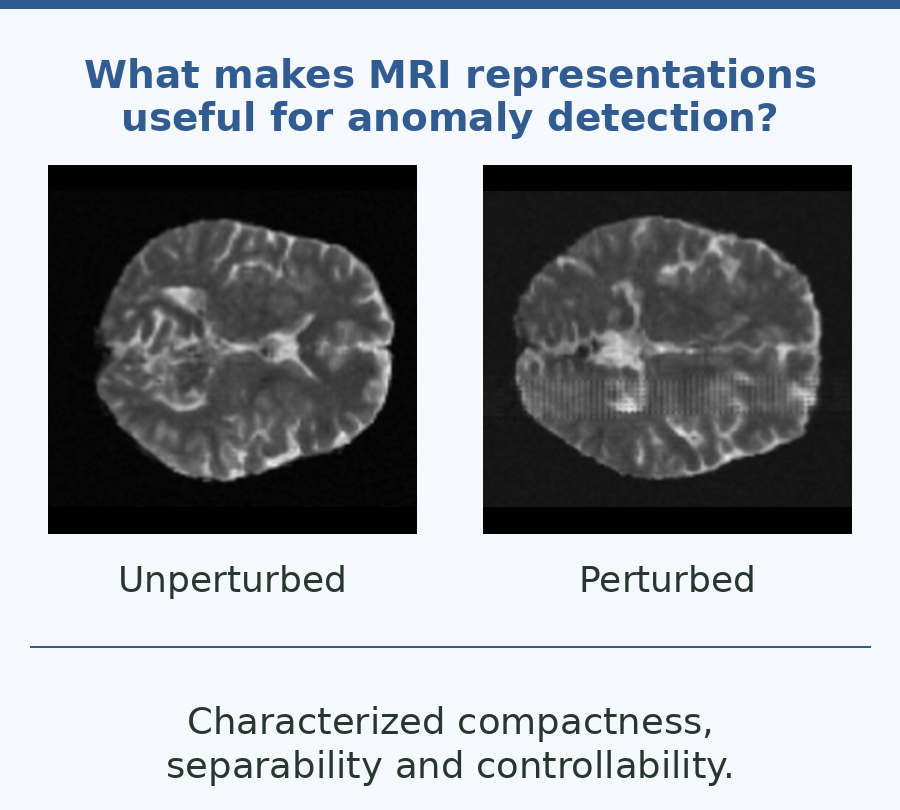
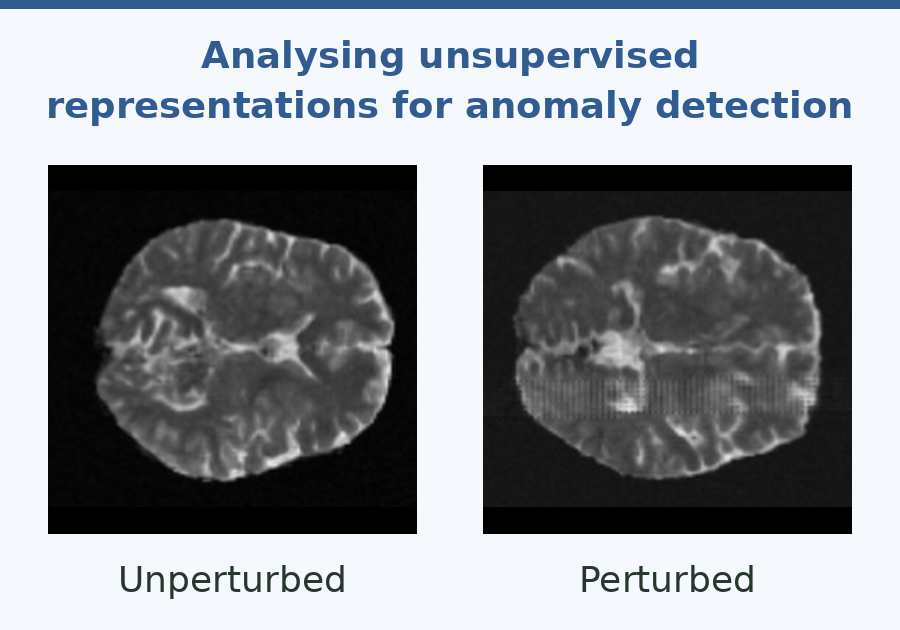
Focus work highlights on a single contribution
Remove questions and duplicate footer statements. Emphasize unsupervised representations and multimodal alignment between image and clinical features while preserving medical panels and modelling flows.

Copilot-Session: de9f66c0-7970-44bd-9dd5-6290aaad4bb2

diff --git a/index.html b/index.html
@@ -81,7 +81,7 @@
 
       <div class="pub-card highlight">
         <a class="pub-thumb" href="https://arxiv.org/abs/2603.01552" target="_blank">
-          <img src="assets/papers/align-cdae-thesis.webp?v=3" alt="Can clinical cues guide anatomical change in MRI? Baseline MRI, attention overlay and predicted follow-up. Aligned clinical conditioning with progression-specific anatomy." width="900" height="810" loading="lazy" />
+          <img src="assets/papers/align-cdae-thesis.webp?v=4" alt="Multimodal alignment between image and clinical features. Baseline MRI, anatomical attention overlay and predicted follow-up from Align-cDAE." width="900" height="630" loading="lazy" />
           <span class="architecture-flow flow-align" role="img" aria-label="Simplified Align-cDAE architecture: MRI encoder, attention-aligned conditional modelling, diffusion decoder.">
             <span class="flow-step" aria-hidden="true"><span>MRI<br />encoder</span></span>
             <span class="flow-step flow-modelling" aria-hidden="true"><span>Attention<br />aligned<br />Modelling</span></span>
@@ -101,7 +101,7 @@
 
       <div class="pub-card highlight">
         <a class="pub-thumb" href="https://arxiv.org/abs/2511.05934" target="_blank">
-          <img src="assets/papers/ad-dae-thesis.webp?v=3" alt="Can MRI progression be controlled without paired follow-ups? Acquired baseline MRI and predictions two and four years later. Controlled follow-up synthesis from unpaired MRI." width="900" height="810" loading="lazy" />
+          <img src="assets/papers/ad-dae-thesis.webp?v=4" alt="Unsupervised representations for controllable MRI progression. Acquired baseline MRI and AD-DAE predictions two and four years later." width="900" height="630" loading="lazy" />
           <span class="architecture-flow flow-ad" role="img" aria-label="Simplified AD-DAE architecture: MRI encoder, latent-shift modelling guided by age and cognitive status, diffusion decoder.">
             <span class="flow-step" aria-hidden="true"><span>MRI<br />encoder</span></span>
             <span class="flow-step flow-modelling" aria-hidden="true"><span>Latent<br />shift<br />Modelling</span></span>
@@ -122,7 +122,7 @@
 
       <div class="pub-card highlight">
         <a class="pub-thumb" href="https://arxiv.org/abs/2507.02405" target="_blank">
-          <img src="assets/papers/posdiffae-thesis.webp?v=3" alt="Can position guide brain-region classification? Original Nissl-stained brain section and PosDiffAE-predicted region map from thesis Figure 3.5. Position-aware representations for brain-region classification." width="900" height="810" loading="lazy" />
+          <img src="assets/papers/posdiffae-thesis.webp?v=4" alt="Unsupervised, position-aware representations for tissue classification. Original Nissl-stained brain section and PosDiffAE-predicted region map." width="900" height="630" loading="lazy" />
           <span class="architecture-flow flow-pos" role="img" aria-label="Simplified PosDiffAE classification architecture: patch encoder, position-aware diffusion modelling, region classifier using the learned representations.">
             <span class="flow-step" aria-hidden="true"><span>Patch<br />encoder</span></span>
             <span class="flow-step flow-modelling" aria-hidden="true"><span>Position-<br />aware<br />Modelling</span></span>
@@ -143,7 +143,7 @@
 
       <div class="pub-card highlight">
         <a class="pub-thumb" href="https://arxiv.org/abs/2211.15527" target="_blank">
-          <img src="assets/papers/representation-study-thesis.webp?v=3" alt="What makes MRI representations useful for anomaly detection? GLOW reconstructions with unperturbed and perturbed latent representations. Characterized compactness, separability and controllability." width="900" height="810" loading="lazy" />
+          <img src="assets/papers/representation-study-thesis.webp?v=4" alt="Analysing unsupervised representations for anomaly detection. GLOW MRI reconstructions with unperturbed and perturbed latent representations." width="900" height="630" loading="lazy" />
           <span class="architecture-flow flow-representation" role="img" aria-label="Simplified representation-analysis flow: MRI encoder, latent-space modelling and perturbation analysis, MRI decoder.">
             <span class="flow-step" aria-hidden="true"><span>MRI<br />encoder</span></span>
             <span class="flow-step flow-modelling" aria-hidden="true"><span>Latent<br />space<br />Modelling</span></span>
